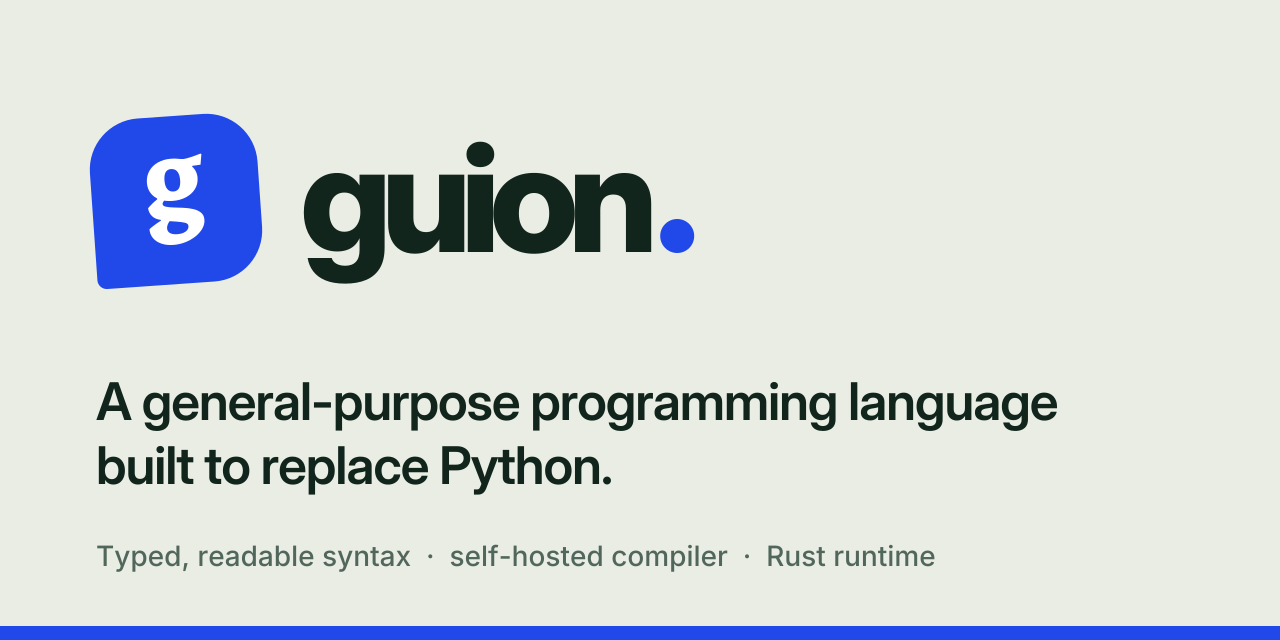
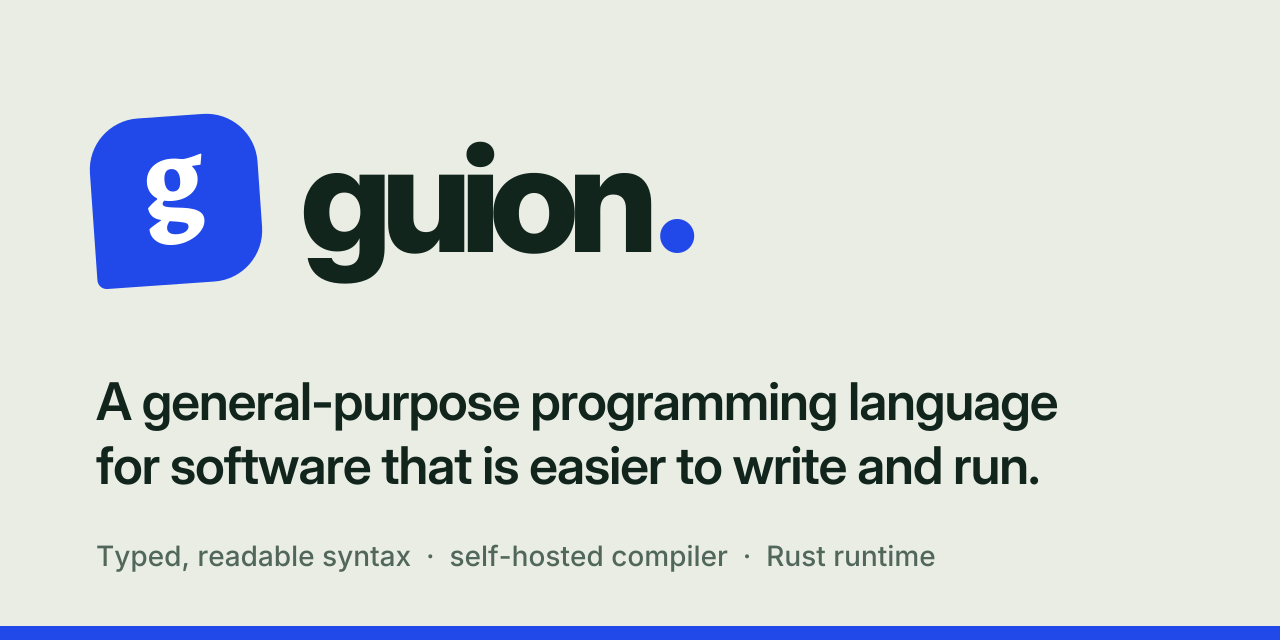
Remove internal goal and roadmap wording from public copy
Claude-Session: https://claude.ai/code/session_01TEvhAThiP9oc4ziDvhtCRM

Changed region(s): [[0.0625, 0.6875, 0.8125, 0.7812]]

diff --git a/site/public/index.html b/site/public/index.html
@@ -5,7 +5,7 @@
 <meta name="viewport" content="width=device-width, initial-scale=1">
 <meta name="color-scheme" content="light">
 <meta name="theme-color" content="#e9ede3">
-<meta name="description" content="Guion is a general-purpose programming language built to replace Python: readable typed syntax, a compiler written in Guion, a Rust runtime, and one command for the whole project. Run a program in your browser and check the evidence behind every claim.">
+<meta name="description" content="Guion is a general-purpose programming language with readable typed syntax, a compiler written in Guion, a Rust runtime, and one command for the whole project. Run a program in your browser and check the evidence behind every claim.">
 <link rel="canonical" href="https://rmichaelthomas.github.io/guion/">
 <link rel="icon" type="image/svg+xml" href="brand/mark.svg">
 <link rel="apple-touch-icon" href="brand/mark-180.png">
@@ -14,14 +14,14 @@
 <meta property="og:type" content="website">
 <meta property="og:site_name" content="Guion">
 <meta property="og:title" content="Guion programming language">
-<meta property="og:description" content="A general-purpose programming language built to replace Python. Readable typed syntax, a self-hosted compiler, a Rust runtime, and measured evidence for every claim.">
+<meta property="og:description" content="A general-purpose programming language with readable typed syntax, a self-hosted compiler, a Rust runtime, and measured evidence for every claim.">
 <meta property="og:url" content="https://rmichaelthomas.github.io/guion/">
 <meta property="og:image" content="https://rmichaelthomas.github.io/guion/brand/social-card.png">
 <meta property="og:image:width" content="1280">
 <meta property="og:image:height" content="640">
-<meta property="og:image:alt" content="The Guion logo with the words: a general-purpose programming language built to replace Python.">
+<meta property="og:image:alt" content="The Guion logo with the words: a general-purpose programming language for software that is easier to write and run.">
 <meta name="twitter:card" content="summary_large_image">
-<script type="application/ld+json">{"@context":"https://schema.org","@type":"SoftwareSourceCode","name":"Guion","alternateName":"Guion programming language","description":"A general-purpose programming language built to replace Python, with readable typed syntax, a self-hosted compiler and a Rust runtime.","url":"https://rmichaelthomas.github.io/guion/","codeRepository":"https://github.com/rmichaelthomas/guion","programmingLanguage":["Guion","Rust"],"license":"https://opensource.org/licenses/MIT","author":{"@type":"Person","name":"R. Michael Thomas","url":"https://www.rmichaelthomas.com"},"image":"https://rmichaelthomas.github.io/guion/brand/social-card.png"}</script>
+<script type="application/ld+json">{"@context":"https://schema.org","@type":"SoftwareSourceCode","name":"Guion","alternateName":"Guion programming language","description":"A general-purpose programming language with readable typed syntax, a self-hosted compiler and a Rust runtime.","url":"https://rmichaelthomas.github.io/guion/","codeRepository":"https://github.com/rmichaelthomas/guion","programmingLanguage":["Guion","Rust"],"license":"https://opensource.org/licenses/MIT","author":{"@type":"Person","name":"R. Michael Thomas","url":"https://www.rmichaelthomas.com"},"image":"https://rmichaelthomas.github.io/guion/brand/social-card.png"}</script>
 <title>Guion programming language — a language for the work ahead</title>
 <style>
 @layer reset, base, layouts, components, states, responsive, print;
@@ -716,7 +716,7 @@
 <a class="btn btn-primary" href="#try">Run a program <span aria-hidden="true">↓</span></a>
 <a class="btn btn-light" href="#receipts">See how we know <span aria-hidden="true">↓</span></a>
 </div>
-<p class="fineprint">The first preview build, v0.1.0-preview, is out for Linux (Debian 12, ARM64 and x86_64); a macOS package is planned for 0.2.0. You can also run programs on this page and read the evidence behind every claim.</p>
+<p class="fineprint">The first preview build, v0.1.0-preview, is out for Linux (Debian 12, ARM64 and x86_64); there is no macOS package yet. You can also run programs on this page and read the evidence behind every claim.</p>
 </div>
 <figure class="hero-art" data-ahi="ahi.visual-art-media.svg-illustration" aria-label="A four-line Guion program and the 342-byte artifact the compiler turns it into">
 <svg viewBox="0 0 640 600" xmlns="http://www.w3.org/2000/svg" aria-hidden="true" focusable="false" class="orbit">
@@ -1342,14 +1342,14 @@ hosts = [&quot;api.example.test&quot;]
 <section class="section shell" id="python">
 <div class="sectionhead">
 <div><p class="overline">07 / The other side</p><h2>Where Python<br><span class="serif">still leads.</span></h2></div>
-<p class="v-plain">Python has a long head start. Here is where it still leads today, and the work planned to close each gap.</p>
-<p class="v-dev">Open gaps, the planned work for each, and the remaining counter-evidence.</p>
+<p class="v-plain">Python is mature and widely used. Here is where it is still ahead today.</p>
+<p class="v-dev">Open gaps and the remaining counter-evidence.</p>
 </div>
 <div class="python-grid">
 <div class="python-says">
-<div class="ahi"><section id="slot-python-accordion-ecosystem" class="instrument family-reveals-discoveries renderer-accordion interaction-details" data-ahi="ahi.reveals-discoveries.accordion" data-ahi-renderer="accordion" data-ahi-element="details" data-ahi-version="1"><details data-ahi-semantic="details" class="accordion native-accordion"><summary>Libraries and packages</summary><section class="accordion-content"><div><p>Python has hundreds of thousands of packages and decades of libraries behind it. Guion ships 17 standard-library modules and a package manager that installs from a local path or a checksummed URL. It has no public package registry yet.</p></div><p>Next: a much wider standard library, with processes, regular expressions, sockets, an HTTP server and compression, plus version ranges, guion publish and a hosted registry.</p></section></details></section></div>
-<div class="ahi"><section id="slot-python-accordion-arrays" class="instrument family-reveals-discoveries renderer-accordion interaction-details" data-ahi="ahi.reveals-discoveries.accordion" data-ahi-renderer="accordion" data-ahi-element="details" data-ahi-version="1"><details data-ahi-semantic="details" class="accordion native-accordion"><summary>Arrays and data science</summary><section class="accordion-content"><div><p>NumPy and pandas make Python the default for numeric and data work. Guion does not have a native array type yet.</p></div><p>Next: typed n-dimensional arrays built into the runtime, then data frames, measured head to head against NumPy and pandas. Earlier tests that reached NumPy through Python are retired.</p></section></details></section></div>
-<div class="ahi"><section id="slot-python-accordion-release" class="instrument family-reveals-discoveries renderer-accordion interaction-details" data-ahi="ahi.reveals-discoveries.accordion" data-ahi-renderer="accordion" data-ahi-element="details" data-ahi-version="1"><details data-ahi-semantic="details" class="accordion native-accordion"><summary>A release you can use</summary><section class="accordion-content"><div><p>Guion&#39;s first public build is a Linux pre-release, v0.1.0-preview, for Debian 12 on ARM64 and x86_64. There is no macOS package yet. Python is a released language with a long track record.</p></div><p>Next: release 0.2.0, with installers for macOS ARM64 and both Debian targets and a written stability policy.</p></section></details></section></div>
+<div class="ahi"><section id="slot-python-accordion-ecosystem" class="instrument family-reveals-discoveries renderer-accordion interaction-details" data-ahi="ahi.reveals-discoveries.accordion" data-ahi-renderer="accordion" data-ahi-element="details" data-ahi-version="1"><details data-ahi-semantic="details" class="accordion native-accordion"><summary>Libraries and packages</summary><section class="accordion-content"><div><p>Python has hundreds of thousands of packages and decades of libraries behind it. Guion ships 17 standard-library modules and a package manager that installs from a local path or a checksummed URL. It has no public package registry yet.</p></div><p>The standard-library modules are listed in the language reference.</p></section></details></section></div>
+<div class="ahi"><section id="slot-python-accordion-arrays" class="instrument family-reveals-discoveries renderer-accordion interaction-details" data-ahi="ahi.reveals-discoveries.accordion" data-ahi-renderer="accordion" data-ahi-element="details" data-ahi-version="1"><details data-ahi-semantic="details" class="accordion native-accordion"><summary>Arrays and data science</summary><section class="accordion-content"><div><p>NumPy and pandas make Python the default for numeric and data work. Guion does not have a native array type yet.</p></div><p>Earlier tests that reached NumPy through Python are retired and no longer cited.</p></section></details></section></div>
+<div class="ahi"><section id="slot-python-accordion-release" class="instrument family-reveals-discoveries renderer-accordion interaction-details" data-ahi="ahi.reveals-discoveries.accordion" data-ahi-renderer="accordion" data-ahi-element="details" data-ahi-version="1"><details data-ahi-semantic="details" class="accordion native-accordion"><summary>A release you can use</summary><section class="accordion-content"><div><p>Guion&#39;s first public build is a Linux pre-release, v0.1.0-preview, for Debian 12 on ARM64 and x86_64. There is no macOS package yet. Python is a released language with a long track record.</p></div><p>Each archive on the release page has a matching SHA-256 checksum file.</p></section></details></section></div>
 <div class="ahi"><section id="slot-python-accordion-learn" class="instrument family-reveals-discoveries renderer-accordion interaction-details" data-ahi="ahi.reveals-discoveries.accordion" data-ahi-renderer="accordion" data-ahi-element="details" data-ahi-version="1"><details data-ahi-semantic="details" class="accordion native-accordion"><summary>Learning it</summary><section class="accordion-content"><div><p>Whether a new builder can learn Guion, find its APIs and make a realistic change from the guides is still being tested.</p></div><p>Learnability is listed as an open outcome on the project status page.</p></section></details></section></div>
 <div class="ahi"><section id="slot-python-accordion-compare" class="instrument family-reveals-discoveries renderer-accordion interaction-details" data-ahi="ahi.reveals-discoveries.accordion" data-ahi-renderer="accordion" data-ahi-element="details" data-ahi-version="1"><details data-ahi-semantic="details" class="accordion native-accordion"><summary>Beyond the tasks measured</summary><section class="accordion-content"><div><p>Every number on this page is for a named program on a named machine against a named Python version. The server results come from one run on each of two cloud machines; an Intel Xeon server measured Guion slower on an earlier build and has not been rerun. Free-threaded Python and PyPy were not compared.</p></div><p>Overall competitiveness remains open, in the project&#39;s own words.</p></section></details></section></div>
 </div>

diff --git a/site/public/developer/index.html b/site/public/developer/index.html
@@ -5,7 +5,7 @@
 <meta name="viewport" content="width=device-width, initial-scale=1">
 <meta name="color-scheme" content="light">
 <meta name="theme-color" content="#e9ede3">
-<meta name="description" content="Guion is a general-purpose programming language built to replace Python: readable typed syntax, a compiler written in Guion, a Rust runtime, and one command for the whole project. Run a program in your browser and check the evidence behind every claim.">
+<meta name="description" content="Guion is a general-purpose programming language with readable typed syntax, a compiler written in Guion, a Rust runtime, and one command for the whole project. Run a program in your browser and check the evidence behind every claim.">
 <link rel="canonical" href="https://rmichaelthomas.github.io/guion/">
 <link rel="icon" type="image/svg+xml" href="../brand/mark.svg">
 <link rel="apple-touch-icon" href="../brand/mark-180.png">
@@ -14,14 +14,14 @@
 <meta property="og:type" content="website">
 <meta property="og:site_name" content="Guion">
 <meta property="og:title" content="Guion programming language">
-<meta property="og:description" content="A general-purpose programming language built to replace Python. Readable typed syntax, a self-hosted compiler, a Rust runtime, and measured evidence for every claim.">
+<meta property="og:description" content="A general-purpose programming language with readable typed syntax, a self-hosted compiler, a Rust runtime, and measured evidence for every claim.">
 <meta property="og:url" content="https://rmichaelthomas.github.io/guion/">
 <meta property="og:image" content="https://rmichaelthomas.github.io/guion/brand/social-card.png">
 <meta property="og:image:width" content="1280">
 <meta property="og:image:height" content="640">
-<meta property="og:image:alt" content="The Guion logo with the words: a general-purpose programming language built to replace Python.">
+<meta property="og:image:alt" content="The Guion logo with the words: a general-purpose programming language for software that is easier to write and run.">
 <meta name="twitter:card" content="summary_large_image">
-<script type="application/ld+json">{"@context":"https://schema.org","@type":"SoftwareSourceCode","name":"Guion","alternateName":"Guion programming language","description":"A general-purpose programming language built to replace Python, with readable typed syntax, a self-hosted compiler and a Rust runtime.","url":"https://rmichaelthomas.github.io/guion/","codeRepository":"https://github.com/rmichaelthomas/guion","programmingLanguage":["Guion","Rust"],"license":"https://opensource.org/licenses/MIT","author":{"@type":"Person","name":"R. Michael Thomas","url":"https://www.rmichaelthomas.com"},"image":"https://rmichaelthomas.github.io/guion/brand/social-card.png"}</script>
+<script type="application/ld+json">{"@context":"https://schema.org","@type":"SoftwareSourceCode","name":"Guion","alternateName":"Guion programming language","description":"A general-purpose programming language with readable typed syntax, a self-hosted compiler and a Rust runtime.","url":"https://rmichaelthomas.github.io/guion/","codeRepository":"https://github.com/rmichaelthomas/guion","programmingLanguage":["Guion","Rust"],"license":"https://opensource.org/licenses/MIT","author":{"@type":"Person","name":"R. Michael Thomas","url":"https://www.rmichaelthomas.com"},"image":"https://rmichaelthomas.github.io/guion/brand/social-card.png"}</script>
 <meta name="robots" content="noindex">
 <title>Guion programming language — a language for the work ahead</title>
 <style>
@@ -717,7 +717,7 @@
 <a class="btn btn-primary" href="#try">Run a program <span aria-hidden="true">↓</span></a>
 <a class="btn btn-light" href="#receipts">See how we know <span aria-hidden="true">↓</span></a>
 </div>
-<p class="fineprint">The first preview build, v0.1.0-preview, is out for Linux (Debian 12, ARM64 and x86_64); a macOS package is planned for 0.2.0. You can also run programs on this page and read the evidence behind every claim.</p>
+<p class="fineprint">The first preview build, v0.1.0-preview, is out for Linux (Debian 12, ARM64 and x86_64); there is no macOS package yet. You can also run programs on this page and read the evidence behind every claim.</p>
 </div>
 <figure class="hero-art" data-ahi="ahi.visual-art-media.svg-illustration" aria-label="A four-line Guion program and the 342-byte artifact the compiler turns it into">
 <svg viewBox="0 0 640 600" xmlns="http://www.w3.org/2000/svg" aria-hidden="true" focusable="false" class="orbit">
@@ -1343,14 +1343,14 @@ hosts = [&quot;api.example.test&quot;]
 <section class="section shell" id="python">
 <div class="sectionhead">
 <div><p class="overline">07 / The other side</p><h2>Where Python<br><span class="serif">still leads.</span></h2></div>
-<p class="v-plain">Python has a long head start. Here is where it still leads today, and the work planned to close each gap.</p>
-<p class="v-dev">Open gaps, the planned work for each, and the remaining counter-evidence.</p>
+<p class="v-plain">Python is mature and widely used. Here is where it is still ahead today.</p>
+<p class="v-dev">Open gaps and the remaining counter-evidence.</p>
 </div>
 <div class="python-grid">
 <div class="python-says">
-<div class="ahi"><section id="slot-python-accordion-ecosystem" class="instrument family-reveals-discoveries renderer-accordion interaction-details" data-ahi="ahi.reveals-discoveries.accordion" data-ahi-renderer="accordion" data-ahi-element="details" data-ahi-version="1"><details data-ahi-semantic="details" class="accordion native-accordion"><summary>Libraries and packages</summary><section class="accordion-content"><div><p>Python has hundreds of thousands of packages and decades of libraries behind it. Guion ships 17 standard-library modules and a package manager that installs from a local path or a checksummed URL. It has no public package registry yet.</p></div><p>Next: a much wider standard library, with processes, regular expressions, sockets, an HTTP server and compression, plus version ranges, guion publish and a hosted registry.</p></section></details></section></div>
-<div class="ahi"><section id="slot-python-accordion-arrays" class="instrument family-reveals-discoveries renderer-accordion interaction-details" data-ahi="ahi.reveals-discoveries.accordion" data-ahi-renderer="accordion" data-ahi-element="details" data-ahi-version="1"><details data-ahi-semantic="details" class="accordion native-accordion"><summary>Arrays and data science</summary><section class="accordion-content"><div><p>NumPy and pandas make Python the default for numeric and data work. Guion does not have a native array type yet.</p></div><p>Next: typed n-dimensional arrays built into the runtime, then data frames, measured head to head against NumPy and pandas. Earlier tests that reached NumPy through Python are retired.</p></section></details></section></div>
-<div class="ahi"><section id="slot-python-accordion-release" class="instrument family-reveals-discoveries renderer-accordion interaction-details" data-ahi="ahi.reveals-discoveries.accordion" data-ahi-renderer="accordion" data-ahi-element="details" data-ahi-version="1"><details data-ahi-semantic="details" class="accordion native-accordion"><summary>A release you can use</summary><section class="accordion-content"><div><p>Guion&#39;s first public build is a Linux pre-release, v0.1.0-preview, for Debian 12 on ARM64 and x86_64. There is no macOS package yet. Python is a released language with a long track record.</p></div><p>Next: release 0.2.0, with installers for macOS ARM64 and both Debian targets and a written stability policy.</p></section></details></section></div>
+<div class="ahi"><section id="slot-python-accordion-ecosystem" class="instrument family-reveals-discoveries renderer-accordion interaction-details" data-ahi="ahi.reveals-discoveries.accordion" data-ahi-renderer="accordion" data-ahi-element="details" data-ahi-version="1"><details data-ahi-semantic="details" class="accordion native-accordion"><summary>Libraries and packages</summary><section class="accordion-content"><div><p>Python has hundreds of thousands of packages and decades of libraries behind it. Guion ships 17 standard-library modules and a package manager that installs from a local path or a checksummed URL. It has no public package registry yet.</p></div><p>The standard-library modules are listed in the language reference.</p></section></details></section></div>
+<div class="ahi"><section id="slot-python-accordion-arrays" class="instrument family-reveals-discoveries renderer-accordion interaction-details" data-ahi="ahi.reveals-discoveries.accordion" data-ahi-renderer="accordion" data-ahi-element="details" data-ahi-version="1"><details data-ahi-semantic="details" class="accordion native-accordion"><summary>Arrays and data science</summary><section class="accordion-content"><div><p>NumPy and pandas make Python the default for numeric and data work. Guion does not have a native array type yet.</p></div><p>Earlier tests that reached NumPy through Python are retired and no longer cited.</p></section></details></section></div>
+<div class="ahi"><section id="slot-python-accordion-release" class="instrument family-reveals-discoveries renderer-accordion interaction-details" data-ahi="ahi.reveals-discoveries.accordion" data-ahi-renderer="accordion" data-ahi-element="details" data-ahi-version="1"><details data-ahi-semantic="details" class="accordion native-accordion"><summary>A release you can use</summary><section class="accordion-content"><div><p>Guion&#39;s first public build is a Linux pre-release, v0.1.0-preview, for Debian 12 on ARM64 and x86_64. There is no macOS package yet. Python is a released language with a long track record.</p></div><p>Each archive on the release page has a matching SHA-256 checksum file.</p></section></details></section></div>
 <div class="ahi"><section id="slot-python-accordion-learn" class="instrument family-reveals-discoveries renderer-accordion interaction-details" data-ahi="ahi.reveals-discoveries.accordion" data-ahi-renderer="accordion" data-ahi-element="details" data-ahi-version="1"><details data-ahi-semantic="details" class="accordion native-accordion"><summary>Learning it</summary><section class="accordion-content"><div><p>Whether a new builder can learn Guion, find its APIs and make a realistic change from the guides is still being tested.</p></div><p>Learnability is listed as an open outcome on the project status page.</p></section></details></section></div>
 <div class="ahi"><section id="slot-python-accordion-compare" class="instrument family-reveals-discoveries renderer-accordion interaction-details" data-ahi="ahi.reveals-discoveries.accordion" data-ahi-renderer="accordion" data-ahi-element="details" data-ahi-version="1"><details data-ahi-semantic="details" class="accordion native-accordion"><summary>Beyond the tasks measured</summary><section class="accordion-content"><div><p>Every number on this page is for a named program on a named machine against a named Python version. The server results come from one run on each of two cloud machines; an Intel Xeon server measured Guion slower on an earlier build and has not been rerun. Free-threaded Python and PyPy were not compared.</p></div><p>Overall competitiveness remains open, in the project&#39;s own words.</p></section></details></section></div>
 </div>

diff --git a/site/src/shell.html b/site/src/shell.html
@@ -5,7 +5,7 @@
 <meta name="viewport" content="width=device-width, initial-scale=1">
 <meta name="color-scheme" content="light">
 <meta name="theme-color" content="#e9ede3">
-<meta name="description" content="Guion is a general-purpose programming language built to replace Python: readable typed syntax, a compiler written in Guion, a Rust runtime, and one command for the whole project. Run a program in your browser and check the evidence behind every claim.">
+<meta name="description" content="Guion is a general-purpose programming language with readable typed syntax, a compiler written in Guion, a Rust runtime, and one command for the whole project. Run a program in your browser and check the evidence behind every claim.">
 <link rel="canonical" href="https://rmichaelthomas.github.io/guion/">
 <link rel="icon" type="image/svg+xml" href="{{base}}brand/mark.svg">
 <link rel="apple-touch-icon" href="{{base}}brand/mark-180.png">
@@ -14,14 +14,14 @@
 <meta property="og:type" content="website">
 <meta property="og:site_name" content="Guion">
 <meta property="og:title" content="Guion programming language">
-<meta property="og:description" content="A general-purpose programming language built to replace Python. Readable typed syntax, a self-hosted compiler, a Rust runtime, and measured evidence for every claim.">
+<meta property="og:description" content="A general-purpose programming language with readable typed syntax, a self-hosted compiler, a Rust runtime, and measured evidence for every claim.">
 <meta property="og:url" content="https://rmichaelthomas.github.io/guion/">
 <meta property="og:image" content="https://rmichaelthomas.github.io/guion/brand/social-card.png">
 <meta property="og:image:width" content="1280">
 <meta property="og:image:height" content="640">
-<meta property="og:image:alt" content="The Guion logo with the words: a general-purpose programming language built to replace Python.">
+<meta property="og:image:alt" content="The Guion logo with the words: a general-purpose programming language for software that is easier to write and run.">
 <meta name="twitter:card" content="summary_large_image">
-<script type="application/ld+json">{"@context":"https://schema.org","@type":"SoftwareSourceCode","name":"Guion","alternateName":"Guion programming language","description":"A general-purpose programming language built to replace Python, with readable typed syntax, a self-hosted compiler and a Rust runtime.","url":"https://rmichaelthomas.github.io/guion/","codeRepository":"https://github.com/rmichaelthomas/guion","programmingLanguage":["Guion","Rust"],"license":"https://opensource.org/licenses/MIT","author":{"@type":"Person","name":"R. Michael Thomas","url":"https://www.rmichaelthomas.com"},"image":"https://rmichaelthomas.github.io/guion/brand/social-card.png"}</script>
+<script type="application/ld+json">{"@context":"https://schema.org","@type":"SoftwareSourceCode","name":"Guion","alternateName":"Guion programming language","description":"A general-purpose programming language with readable typed syntax, a self-hosted compiler and a Rust runtime.","url":"https://rmichaelthomas.github.io/guion/","codeRepository":"https://github.com/rmichaelthomas/guion","programmingLanguage":["Guion","Rust"],"license":"https://opensource.org/licenses/MIT","author":{"@type":"Person","name":"R. Michael Thomas","url":"https://www.rmichaelthomas.com"},"image":"https://rmichaelthomas.github.io/guion/brand/social-card.png"}</script>
 {{robots}}<title>Guion programming language — a language for the work ahead</title>
 <style>
 {{css}}

diff --git a/site/src/sections/01-hero.html b/site/src/sections/01-hero.html
@@ -18,7 +18,7 @@
 <a class="btn btn-primary" href="#try">Run a program <span aria-hidden="true">↓</span></a>
 <a class="btn btn-light" href="#receipts">See how we know <span aria-hidden="true">↓</span></a>
 </div>
-<p class="fineprint">The first preview build, v0.1.0-preview, is out for Linux (Debian 12, ARM64 and x86_64); a macOS package is planned for 0.2.0. You can also run programs on this page and read the evidence behind every claim.</p>
+<p class="fineprint">The first preview build, v0.1.0-preview, is out for Linux (Debian 12, ARM64 and x86_64); there is no macOS package yet. You can also run programs on this page and read the evidence behind every claim.</p>
 </div>
 <figure class="hero-art" data-ahi="ahi.visual-art-media.svg-illustration" aria-label="A four-line Guion program and the {{hello-size}}-byte artifact the compiler turns it into">
 <svg viewBox="0 0 640 600" xmlns="http://www.w3.org/2000/svg" aria-hidden="true" focusable="false" class="orbit">

diff --git a/site/src/sections/08-python.html b/site/src/sections/08-python.html
@@ -1,8 +1,8 @@
 <section class="section shell" id="python">
 <div class="sectionhead">
 <div><p class="overline">07 / The other side</p><h2>Where Python<br><span class="serif">still leads.</span></h2></div>
-<p class="v-plain">Python has a long head start. Here is where it still leads today, and the work planned to close each gap.</p>
-<p class="v-dev">Open gaps, the planned work for each, and the remaining counter-evidence.</p>
+<p class="v-plain">Python is mature and widely used. Here is where it is still ahead today.</p>
+<p class="v-dev">Open gaps and the remaining counter-evidence.</p>
 </div>
 <div class="python-grid">
 <div class="python-says">

diff --git a/README.md b/README.md
@@ -7,7 +7,7 @@
   </a>
 </p>
 
-<p align="center"><strong>A general-purpose programming language built to replace Python.</strong></p>
+<p align="center"><strong>A general-purpose programming language for software that is easier to write, understand and run.</strong></p>
 
 <p align="center">
   <a href="https://github.com/rmichaelthomas/guion/releases"><img alt="Latest release" src="https://img.shields.io/github/v/release/rmichaelthomas/guion?include_prereleases&label=release&color=2148e8"></a>
@@ -25,7 +25,7 @@
 
 ---
 
-Guion (say GUY-on) is a programming language for the same everyday work people use Python for: scripts, command-line tools, data processing, web requests, and full applications. It aims to be easier to read, harder to get wrong, and faster to run.
+Guion (say GUY-on) is a programming language for everyday work: scripts, command-line tools, data processing, web requests, and full applications. It aims to be easy to read, hard to get wrong, and fast to run.
 
 Guion is early. The first preview build is out for Linux, and the language is changing quickly. Every speed and quality claim the project makes is measured, and the results are published with their raw data, including the places where Guion still falls short.
 
@@ -89,7 +89,7 @@ Each archive has a matching `.sha256` checksum file. You don't need Rust or Pyth
 
 ### macOS and other systems
 
-There's no macOS package yet; one is planned for the 0.2.0 release. In the meantime you can build from source with [Rust](https://rustup.rs):
+There's no macOS package yet. You can build from source with [Rust](https://rustup.rs):
 
 ```sh
 git clone https://github.com/rmichaelthomas/guion.git
@@ -121,20 +121,13 @@ On November 3, 2026, Guion ran faster than CPython 3.14.7 on every text, JSONL a
 
 Earlier tests on a Mac found Guion 2.7× faster on the Richards benchmark and faster in all nine everyday applications tested. These results cover the workloads named here, not every program. The [speed-gate report](evaluation/completion/results/real-task-sprint/2026-11-03-server-speed-gate.md) and the [website](https://rmichaelthomas.github.io/guion/#receipts) give the method, the raw samples and the limits.
 
-## Where Python still leads
+## Where Python is still ahead
 
-Python has a 35-year head start. Here is where it's still ahead, and what's planned to close each gap:
+Python is mature and widely used. Here is where it's still ahead of Guion today:
 
 - **Libraries and packages.** Guion ships 17 standard-library modules, including JSON, CSV, TOML, SQLite, HTTP, files, text and time, plus a package manager. It doesn't have a public package registry yet.
-- **Arrays and data science.** Guion has no native array type yet. Native arrays and data frames are planned, and they'll be measured against NumPy and pandas.
-- **A stable release.** The current build is a Linux preview. The 0.2.0 release will add installers for macOS and Linux and a written stability policy.
-
-## Roadmap
-
-1. **Packages and the standard library.** Version ranges, `guion publish`, and a hosted package registry, alongside a much wider standard library: processes, regular expressions, sockets, an HTTP server, and more.
-2. **Native arrays and data frames**, measured against NumPy and pandas.
-3. **Guion 0.2.0.** Installers for macOS and Linux, a stability policy, the registry live, and the first official packages.
-4. **Further standard-library waves and packages**, on a regular release schedule.
+- **Arrays and data science.** Guion has no native array type yet, so NumPy and pandas have no Guion counterpart.
+- **A stable release.** The current build is a Linux preview, with no macOS package and no stability promise yet.
 
 ## Documentation
 
